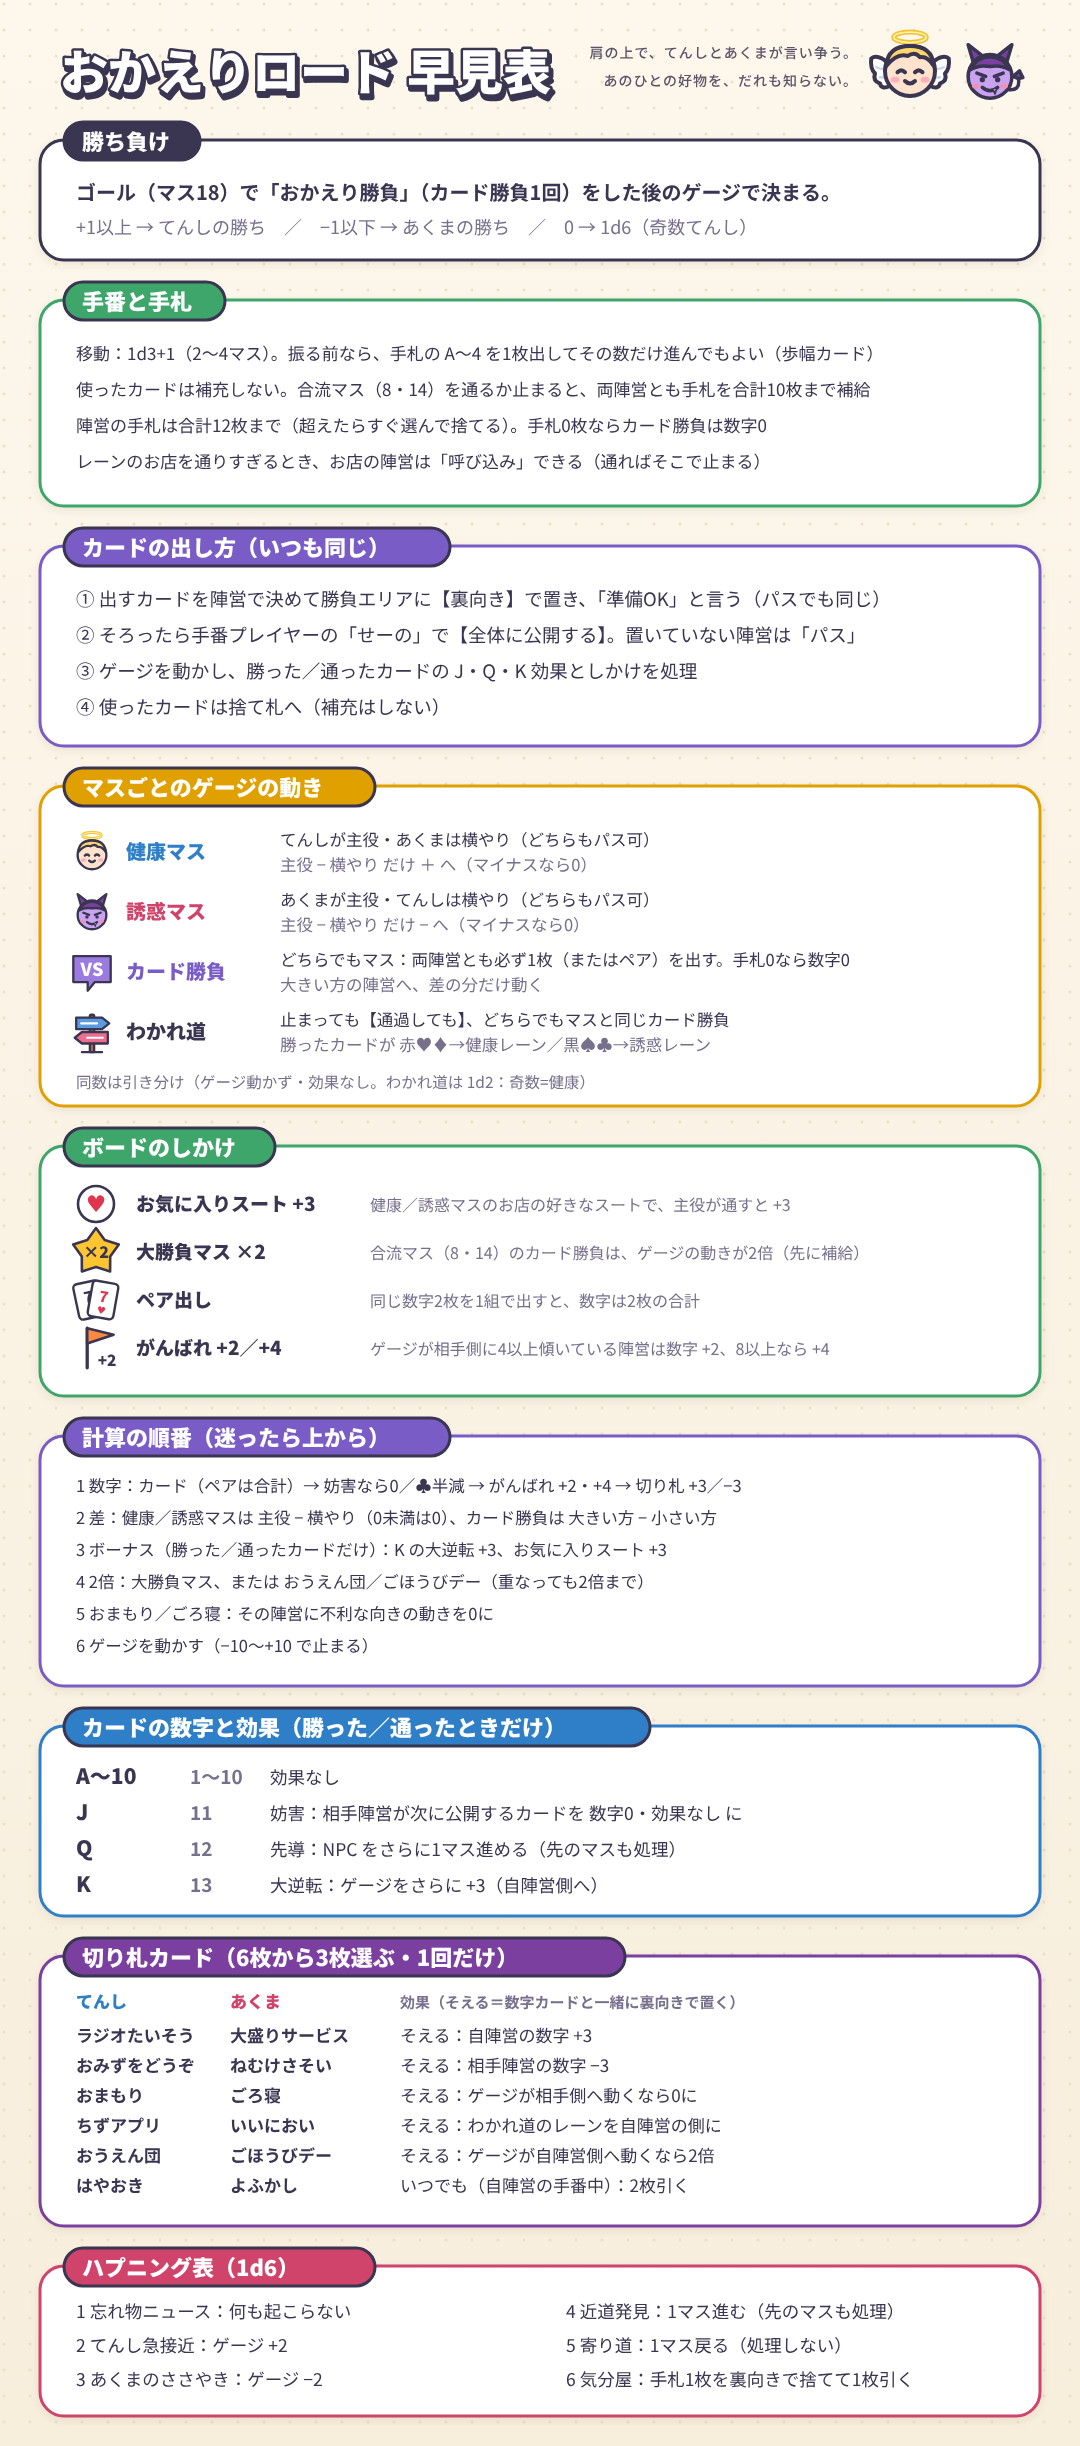
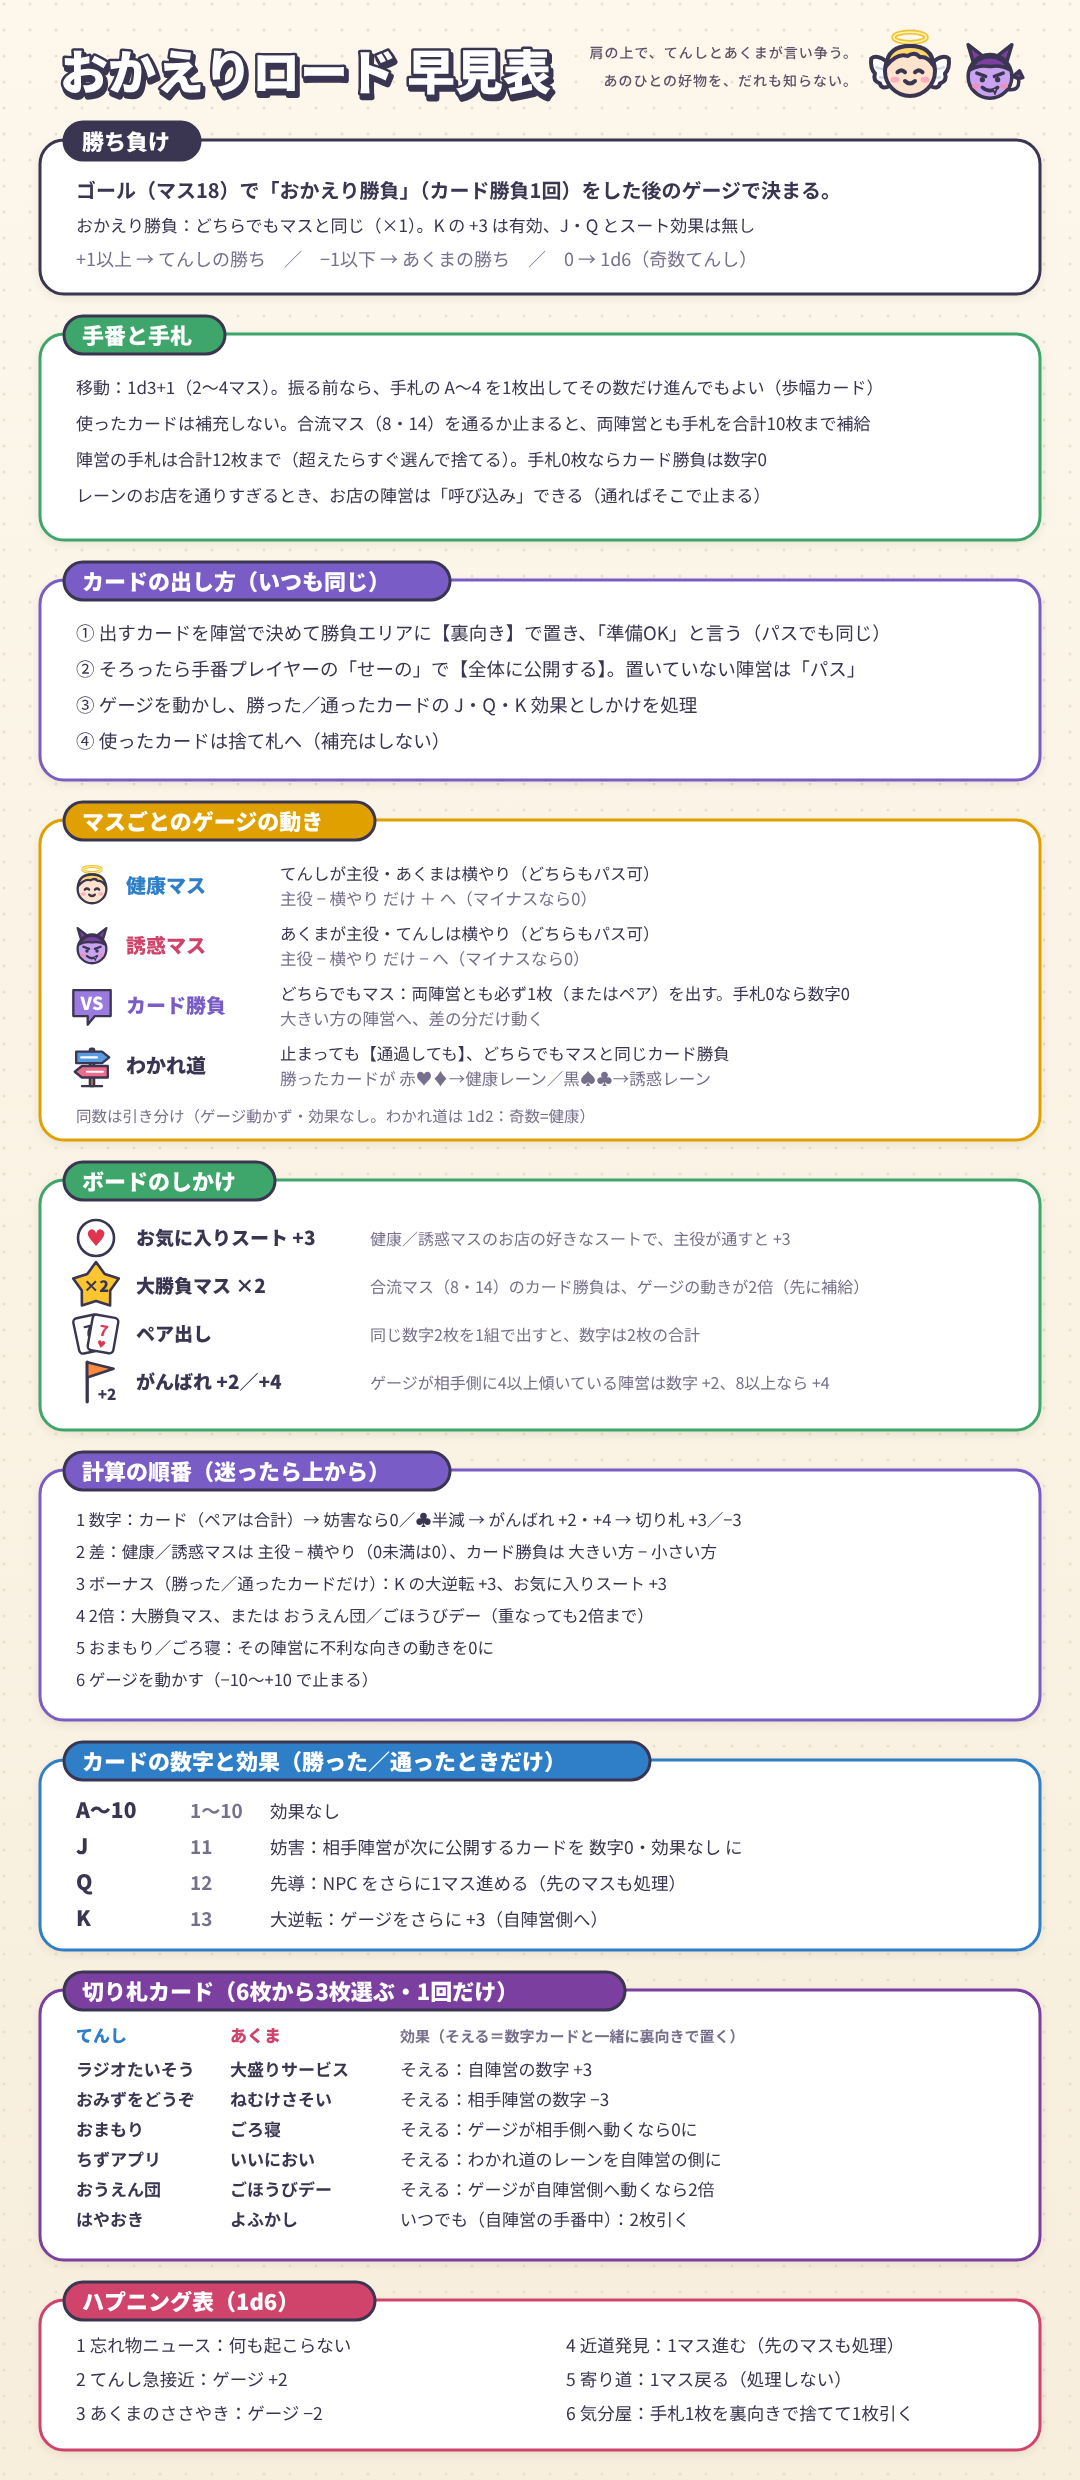
早見表の勝ち負けにおかえり勝負の処理（×1・J・Qの効果なし）を追記 (#73)
Claude-Session: https://claude.ai/code/session_01HxvHSxNPmwqDETHEu9qR46

Changed region(s): [[0.0306, 0.0, 0.9778, 0.9943]]

diff --git a/tools/build_assets.py b/tools/build_assets.py
@@ -459,10 +459,10 @@ def token(body, label, color, tint, size=118, dy=-8):
 
 
 # =====================================================================
-# 早見表（1080×2446、スクリーンパネル用）
+# 早見表（1080×2480、スクリーンパネル用）
 # =====================================================================
 def quick_reference():
-    QW, QH = 1080, 2446
+    QW, QH = 1080, 2480
     p = [f'<svg xmlns="http://www.w3.org/2000/svg" width="{QW}" height="{QH}" viewBox="0 0 {QW} {QH}" font-family="{FONT}">',
          DEFS,
          f'<rect width="{QW}" height="{QH}" fill="url(#sky)"/>',
@@ -482,12 +482,13 @@ def quick_reference():
 
     # 1. 勝敗
     y = 140
-    box(y, 120, "勝ち負け", INK)
-    p.append(t(76, y + 60, "ゴール（マス18）で「おかえり勝負」（カード勝負1回）をした後のゲージで決まる。", 20, INK, "bold", "start"))
-    p.append(t(76, y + 94, "+1以上 → てんしの勝ち　／　−1以下 → あくまの勝ち　／　0 → 1d6（奇数てんし）", 18, INK_SOFT, anchor="start"))
+    box(y, 154, "勝ち負け", INK)
+    p.append(t(76, y + 58, "ゴール（マス18）で「おかえり勝負」（カード勝負1回）をした後のゲージで決まる。", 20, INK, "bold", "start"))
+    p.append(t(76, y + 92, "おかえり勝負：どちらでもマスと同じ（×1）。K の +3 は有効、J・Q とスート効果は無し", 17, INK, anchor="start"))
+    p.append(t(76, y + 126, "+1以上 → てんしの勝ち　／　−1以下 → あくまの勝ち　／　0 → 1d6（奇数てんし）", 18, INK_SOFT, anchor="start"))
 
     # 2. 手番と手札
-    y = 300
+    y = 334
     box(y, 206, "手番と手札", "#3FA66B")
     turn = ["移動：1d3+1（2〜4マス）。振る前なら、手札の A〜4 を1枚出してその数だけ進んでもよい（歩幅カード）",
             "使ったカードは補充しない。合流マス（8・14）を通るか止まると、両陣営とも手札を合計10枚まで補給",
@@ -497,7 +498,7 @@ def quick_reference():
         p.append(t(76, y + 60 + i * 36, s_, 17, INK, anchor="start"))
 
     # 3. カードの出し方
-    y = 546
+    y = 580
     box(y, 200, "カードの出し方（いつも同じ）", VIOLET)
     steps = ["① 出すカードを陣営で決めて勝負エリアに【裏向き】で置き、「準備OK」と言う（パスでも同じ）",
              "② そろったら手番プレイヤーの「せーの」で【全体に公開する】。置いていない陣営は「パス」",
@@ -507,7 +508,7 @@ def quick_reference():
         p.append(t(76, y + 60 + i * 36, s, 18.5, INK, anchor="start"))
 
     # 4. マスごとのゲージ
-    y = 786
+    y = 820
     box(y, 320, "マスごとのゲージの動き", "#E0A100")
     rows = [
         (art.angel(wings=False), "健康マス", ANGEL, "てんしが主役・あくまは横やり（どちらもパス可）", "主役 − 横やり だけ ＋ へ（マイナスなら0）"),
@@ -524,7 +525,7 @@ def quick_reference():
     p.append(t(76, y + 302, "同数は引き分け（ゲージ動かず・効果なし。わかれ道は 1d2：奇数=健康）", 15.5, INK_SOFT, anchor="start"))
 
     # 5. ボードのしかけ
-    y = 1146
+    y = 1180
     box(y, 250, "ボードのしかけ", "#3FA66B")
     gim = [
         (lambda ix, iy: art.suit_chip("♥", ix, iy, 18), "お気に入りスート +3", "健康／誘惑マスのお店の好きなスートで、主役が通すと +3"),
@@ -539,7 +540,7 @@ def quick_reference():
         p.append(t(370, ry + 7, desc, 16, INK_SOFT, anchor="start"))
 
     # 6. 計算の順番
-    y = 1436
+    y = 1470
     box(y, 250, "計算の順番（迷ったら上から）", VIOLET)
     calc = ["1 数字：カード（ペアは合計）→ 妨害なら0／♣半減 → がんばれ +2・+4 → 切り札 +3／−3",
             "2 差：健康／誘惑マスは 主役 − 横やり（0未満は0）、カード勝負は 大きい方 − 小さい方",
@@ -551,7 +552,7 @@ def quick_reference():
         p.append(t(76, y + 56 + i * 32, s_, 16.5, INK, anchor="start"))
 
     # 7. カード
-    y = 1726
+    y = 1760
     box(y, 190, "カードの数字と効果（勝った／通ったときだけ）", ANGEL)
     cards = [("A〜10", "1〜10", "効果なし"),
              ("J", "11", "妨害：相手陣営が次に公開するカードを 数字0・効果なし に"),
@@ -564,7 +565,7 @@ def quick_reference():
         p.append(t(270, ry, e, 17.5, INK, anchor="start"))
 
     # 8. 切り札
-    y = 1956
+    y = 1990
     box(y, 270, "切り札カード（6枚から3枚選ぶ・1回だけ）", "#7B3FA0")
     p.append(t(76, y + 52, "てんし", 17, ANGEL, "900", "start"))
     p.append(t(230, y + 52, "あくま", 17, DEVIL, "900", "start"))
@@ -578,7 +579,7 @@ def quick_reference():
         p.append(t(230, ry, d[1], 17, INK, "bold", "start"))
         p.append(t(400, ry, eff, 17, INK, anchor="start"))
 
-    y = 2266
+    y = 2300
     box(y, 150, "ハプニング表（1d6）", DEVIL)
     hap = ["1 忘れ物ニュース：何も起こらない", "2 てんし急接近：ゲージ +2", "3 あくまのささやき：ゲージ −2",
            "4 近道発見：1マス進む（先のマスも処理）", "5 寄り道：1マス戻る（処理しない）", "6 気分屋：手札1枚を裏向きで捨てて1枚引く"]

diff --git a/tools/render_png.py b/tools/render_png.py
@@ -17,7 +17,7 @@ ASSETS = ROOT / "assets"
 # 出力サイズ（SVG の width に対する倍率）
 SCALE = {
     "board_route_gauge.svg": 1,   # 1920×1080
-    "quick_reference.svg": 1,     # 1080×2446
+    "quick_reference.svg": 1,     # 1080×2480
     "trump_cards_sheet.svg": 1,
 }
 CARD_SCALE = 2                    # 切り札カード：400×600 → 800×1200px

diff --git a/IMPROVEMENT_LOG.md b/IMPROVEMENT_LOG.md
@@ -74,3 +74,4 @@
 - 2026-10-10 09:09 JST: RULES.md 上級ルール（スート効果）で、ペアが勝った／通ったときに2枚の違うスート（例：♥8＋♣8）の効果が両方発生するのか決まっていなかったため、J・Q・K のペアやわかれ道のレーン選びと同じく、出した陣営がどちらか1つのスートを選んで1回分だけ発生させる（♥ で2人が出していたら誰が引くか相談）と例つきで明記し、「ペア出し」の節にも追記（PR #70）
 - 2026-10-10 13:07 JST: RULES.md「補給と手札の上限」で、合流マス（8・14）に止まっていたNPCがそこから出発するときも「通過」として再び補給できるように読めたため、わかれ道マスの出発時と同じく補給しない（止まったときに補給済み）ことを例つきで明記し、チャットパレットの「補給」にも同じ注記を追加（PR #71）
 - 2026-10-10 17:09 JST: RULES.md「J『妨害』の扱い」で、妨害中の陣営がパスを続けている間にもう一度 J を通したときに妨害が重なるのかが決まっていなかったため、重ならず0になるのは次の1枚だけ・後から通した J は目印にせず捨て札へ置くことを例つきで明記し、上級ルールの ♣ の半減にも重ならない（4分の1にはならない）と追記（tools/simulate.py の実装と一致）（PR #72）
+- 2026-10-10 21:10 JST: 早見表（assets/quick_reference.svg/.png と tools/build_assets.py）の「勝ち負け」に、おかえり勝負の処理（どちらでもマスと同じ・×1・K の +3 は有効、J・Q とスート効果は無し）を1行追加（RULES.md には記載があるが早見表には「カード勝負1回」としか無く、ゴール時に J・Q や大勝負の扱いを確かめられなかったため）。枠を広げた分、PNG を 1080×2480 で再書き出しし、README・render_png.py の寸法表記も更新（PR #73）

diff --git a/README.md b/README.md
@@ -40,7 +40,7 @@ okaeri-road/
 ├── LICENSE                 ライセンス（CC0 1.0）
 ├── assets/                 CCFOLIA用の画像素材（*.svg は編集用ソース）
 │   ├── board_route_gauge.png   ボード＋体調ゲージ＋カード置き場（前景用 1920×1080）
-│   ├── quick_reference.png     インスト用早見表（スクリーンパネル用 1080×2446）
+│   ├── quick_reference.png     インスト用早見表（スクリーンパネル用 1080×2480）
 │   ├── token_npc.png           NPCコマ
 │   ├── token_angel.png         てんし陣営コマ
 │   ├── token_devil.png         あくま陣営コマ
